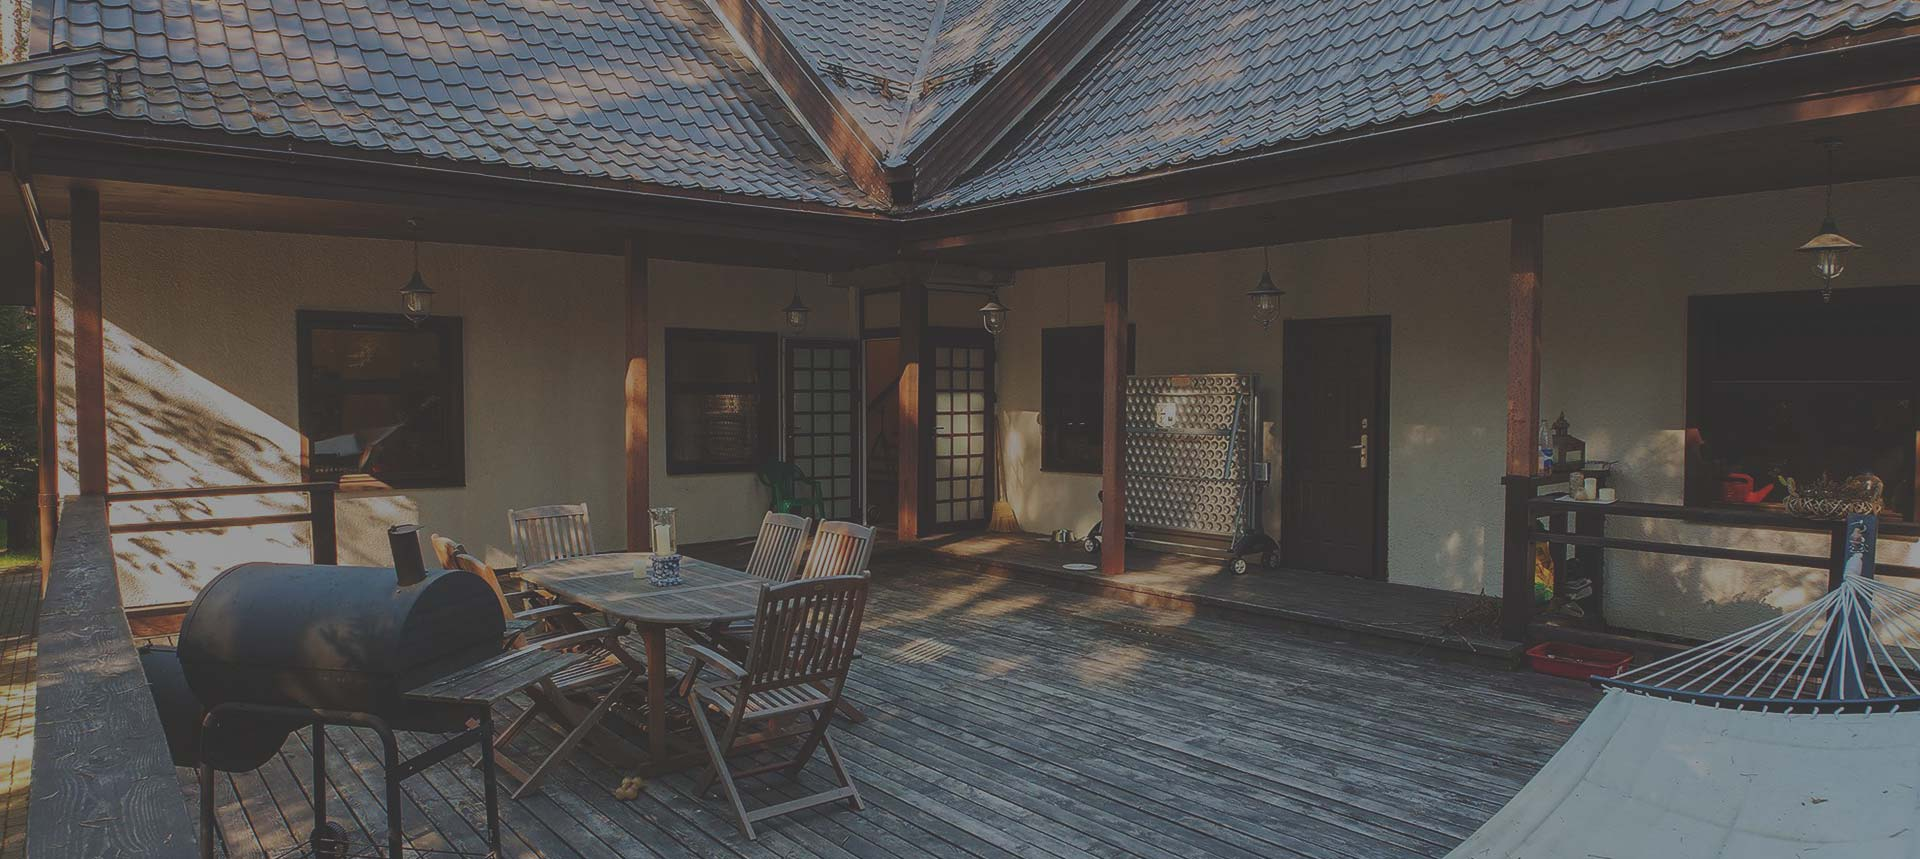
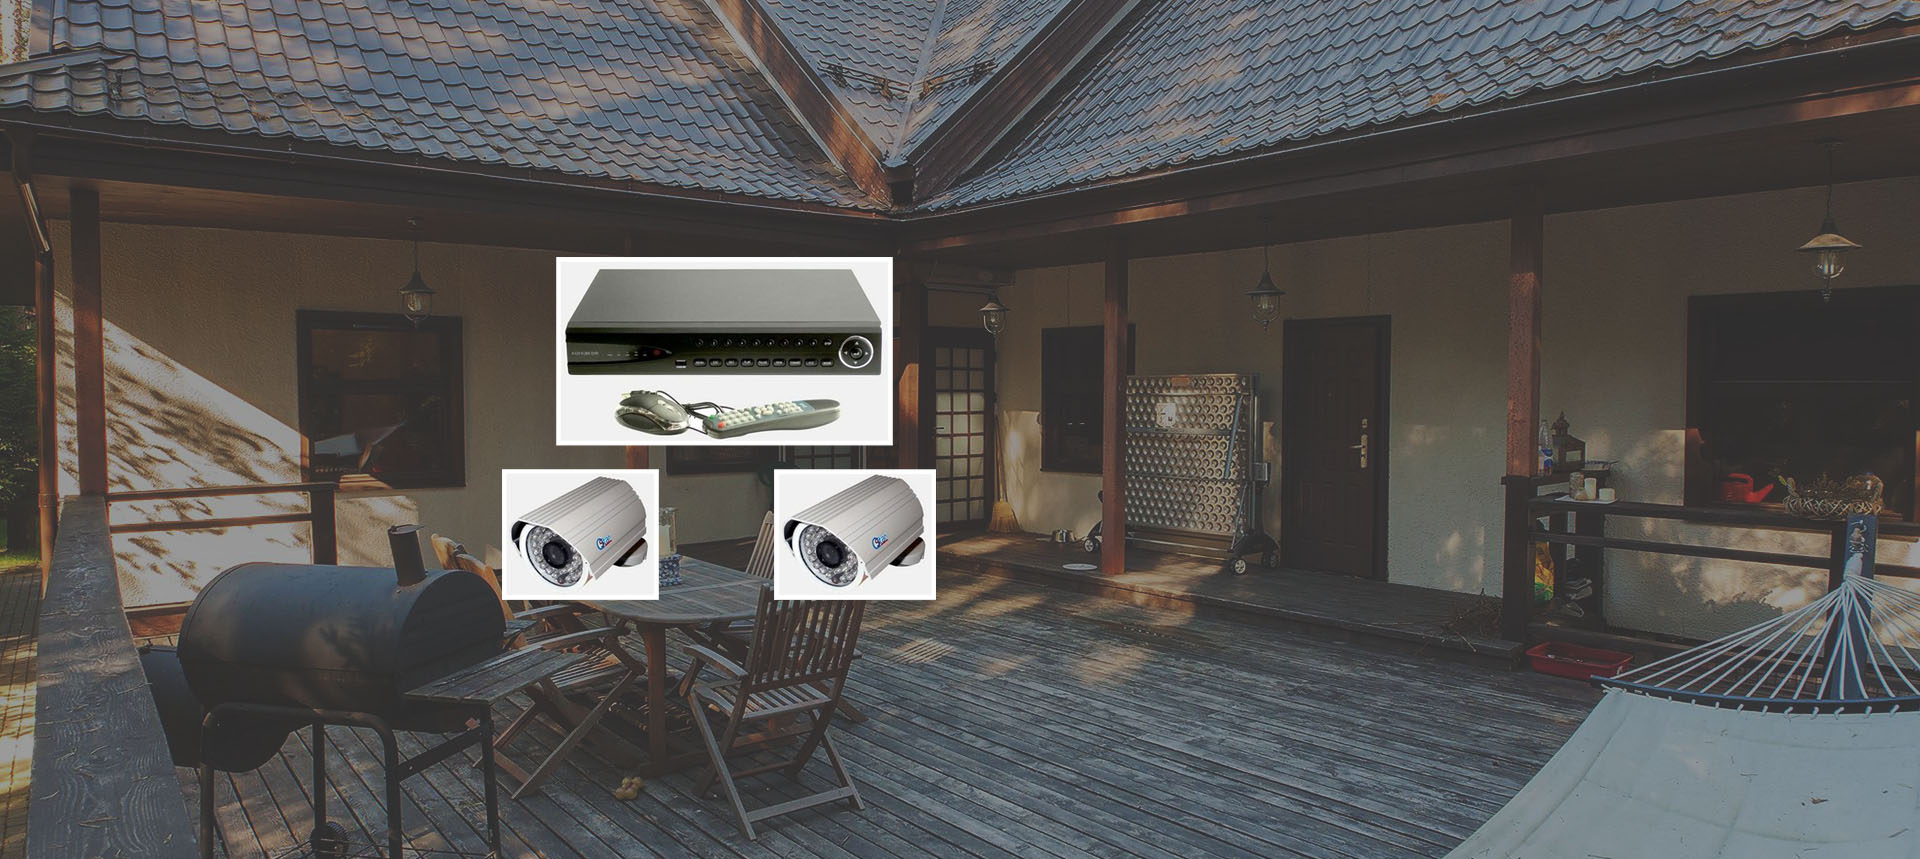
close copies

Changed region(s): [[0.25, 0.2724, 0.5, 0.6962]]

diff --git a/index.html b/index.html
@@ -25,13 +25,62 @@
 
 <section id='product1'>
 <main>
-
+<div>
+<ol>
+<li><strong>- Видеорегистратор QStar 3104</strong> (Цифровой<br/>
+видеорегистратор, 4-канальный + 4 канала<br/>
+звука, пентаплексный режим работы, скорость<br/>
+отображения 100 к/сек, скорость записи<br/>
+100 к/сек макс (D1)порт USB 2.0 х 2 шт. для<br/>
+подключения внешних устройств, Ethernet<br/>
+10/100/1000 MB, веб-интерфейс (iPhone,<br/>
+Blackberry, Google phone, Symbian и Windows)</li>
+<li><strong>- 2 камеры AC 302</strong> (Сенсор: 1/3 Sony Effio-E,<br/>
+Разрешение: 700 ТВЛ, Фокусное<br/>
+расстояние: 3.6 мм, ИК-подсветка:<br/>
+36 LED, Дальность: 15 м, Питание: DC 12V</li>
+<li><strong>- Блок питания</strong> </li>
+<li><strong>- Жесткий диск HDD 1 Тb</strong></li>
+<li><strong>- Кабели</strong> для подключения видеокамер длинной<br/>
+40м (Rexant coaxial, ШВВП 2Х0,75)</li>
+<li><strong>- Все необходимые разьёмы для подключения</strong><br/>
+(F113-55 4 шт, BNC 4 шт, JACK 2.1 - 2 шт)</li>
+<li><strong>- Распределительная коробка</strong> (ТУСО 100Х100 2шт)</li>
+</ol>
+<button class="button">оставить заявку</button>
+ </div>
+ <h2>QStar "Дача эконом" <span>13 376 руб</span></h2>  
 </main>
 </section>
 
 <section id='product2'>
 <main>
-
+<div>
+<ol>
+<li><strong>- Видеорегистратор QStar 3104</strong> (Цифровой<br/>
+видеорегистратор, 4-канальный + 4 канала<br/>
+звука, пентаплексный режим работы, скорость<br/>
+отображения 100 к/сек, скорость записи<br/>
+100 к/сек макс (D1)порт USB 2.0 х 2 шт. для<br/>
+подключения внешних устройств, Ethernet<br/>
+10/100/1000 MB, веб-интерфейс (iPhone,<br/>
+Blackberry, Google phone, Symbian и Windows)</li>
+<li><strong>- 4 камеры AC 302</strong> (Сенсор: 1/3 Sony Effio-E,<br/>
+Разрешение: 700 ТВЛ, Фокусное<br/>
+расстояние: 3.6 мм, ИК-подсветка:<br/>
+36 LED, Дальность: 15 м, Питание: DC 12V</li>
+<li><strong>- Блок питания</strong>(БРП КВАНТ 5А) </li>
+<li><strong>- Аккумулятор 7А/h</strong></li>
+<li><strong>- Жесткий диск HDD 2 Тb</strong></li>
+<li><strong>- Кабели</strong> для подключения видеокамер длинной<br/>
+100м (Rexant coaxial, ШВВП 2Х0,75)</li>
+<li><strong>- Все необходимые разьёмы для подключения</strong><br/>
+(F113-55 8 шт, BNC 4 шт, JACK 2.1 - 4 шт)</li>
+<li><strong>- Распределительная коробка</strong> (ТУСО 100Х100 4шт)</li>
+</ol>
+<button class="button">оставить заявку</button>
+ </div>
+ <h2>QStar "Дача стандарт"  <span>22 002 руб</span></h2>  
 </main>
 </section>
 
@@ -65,25 +114,39 @@
   <div>
      <h2><b>Отзывы</b><br/>наших клиентов</h2>
   <img src="img/m1.png" />
-  <b>Семен Стрижин, 33 года</b>
-  <p>- Очень приветливый персонал, парилка 100<br/>
-градусов просто супер, в бассейне водичка <br/>
-теплая. даже дочка купалась. Очень красивый<br/>
-дизайн, чистота и порядок. Будет время<br/>
-обязательно еще посетим!</p>
+  <b>Сергей, начальник охраны</b>
+  <p>Недавно мы решили самостоятельно выполнить монтаж<br/>
+видеонаблюдения у себя на складе, но немного<br/>
+не рассчитали со схемой размещения. В итоге,<br/>
+между камерами появилось много «слепых зон».<br/>
+Чтобы исправить эту ситуацию, заказали монтаж<br/>
+видеонаблюдения у компании SafetyCams.<br/>
+Ребята приехали в тот же день, всё грамотно<br/>
+рассчитали, быстро была проведена установка камер,<br/>
+регистратора, провода протянули. Теперь при<br/>
+меньшем количестве камер, у нас на складе нет<br/>
+ни одной «слепой зоны». Профессиональная работа,<br/>
+большие молодцы.</p>
   </div>
  </article>
  <article class="right">
   <div>
   <h2><b>Отзывы</b><br/>наших клиентов</h2>
   <img src="img/m2.png" />
-  <b>Александр Фомин, 23 года</b>
-  <p>Отдыхали 23.02. очень понравилось ненавязчивый<br/>
-сервис,чистенько,парилка замечательная,<br/>
-бассейн отличный. Отдыхом довольны!Вечер провели<br/>
-компанией незабываемо!!! Спасибо вежливому<br/>
-и культурному персоналу, удачи девчонки вам!!!<br/>
-Так держать!!!</p>
+  <b>Андрей Игоревич, предприниматель</b>
+  <p>Нужна была установка видеонаблюдения – обратился<br/>
+в компанию SafetyCams. Мне сразу понравилось то,<br/>
+что ее специалисты работали очень оперативно<br/>
+и слаженно. В первый же день сделали все замеры,<br/>
+оценку, подготовку объекта, доставили оборудование.<br/>
+А полная установка, монтаж и подключение всех<br/>
+камер заняла еще не более нескольких дней.<br/>
+Основные работы (монтаж и т.д.) велись ночью,<br/>
+поэтому всё это время магазин работал без перебоев.<br/>
+Очень ответственный подход к делу, уважаю таких<br/>
+партнеров. Скоро понадобится установка<br/>
+видеонаблюдения и на другой точке – теперь<br/>
+уже знаю, к кому обращаться.</p>
   </div>
  </article>
 </section>

diff --git a/style.css b/style.css
@@ -63,7 +63,27 @@ header form button{width:170px;height:40px;color:white;font:bold 14px "Trebuchet
 .request button:active{box-shadow:none;margin-top:10px;margin-bottom:0;}
 #r2 h2{font-size:40px !important;}
 
-#reviews{position:relative;height:720px}
+
+
+#product1{background:url(img/fon2.jpg)no-repeat center;height:859px;}
+#product1 h2{position:absolute;top:-10px;left:100px;font:bold 40px "Trebuchet MS";text-transform:uppercase;margin:95px 35px 70px 50px;color:#ffffff;background:#2d2d2d;display:inline-block;text-align:center;padding:5px 5px} 
+#product1 h2 span{color:#f8bb24}
+#product1 div{float:right;width:410px;height:734px;background:white;margin-top:60px}
+#product1 div ol{list-style:none;padding:120px 0px 30px 10px;font:16px "Trebuchet MS"}
+#product1 div ol li{padding:5px 0}
+#product1 div ol li strong{font-weight:bold}
+#product1 div button{margin-left:30px;margin-top:5px;width:190px;height:50px;background:#2d2d2d;text-transform:uppercase;color:white;font:15px "Trebuchet MS";border:none;cursor:pointer;}
+ 
+#product2{background:url(img/fon3.jpg)no-repeat center;height:859px;}
+#product2 h2{position:absolute;top:-10px;left:100px;font:bold 40px "Trebuchet MS";text-transform:uppercase;margin:95px 35px 70px 50px;color:#ffffff;background:#2d2d2d;display:inline-block;text-align:center;padding:5px 5px} 
+#product2 h2 span{color:#f8bb24}
+#product2 div{float:left;width:410px;height:734px;background:white;margin-top:60px}
+#product2 div ol{list-style:none;padding:100px 0px 10px 30px;font:16px "Trebuchet MS"}
+#product2 div ol li{padding:5px 0}
+#product2 div ol li strong{font-weight:bold}
+#product2 div button{margin-left:30px;margin-top:5px;width:190px;height:50px;background:#2d2d2d;text-transform:uppercase;color:white;font:15px "Trebuchet MS";border:none;cursor:pointer;}
+
+#reviews{position:relative;height:943px}
 #reviews .left  {float:none;display:block;position:absolute;top:0;bottom:0;left:0;right:50%;background:#f5f0ed}
 #reviews .right{float:none;display:block;position:absolute;top:0;bottom:0;right:0;left:50%;background:#00b3cb}
 #reviews article div{position:absolute;width:400px;top:80px;bottom:80px;text-align:center}
@@ -72,25 +92,6 @@ header form button{width:170px;height:40px;color:white;font:bold 14px "Trebuchet
 #reviews article div img{display:block;margin:0 auto 40px}
 #reviews .left   div{right:40px}
 #reviews .right div{left:40px}
-
-#a1{background:url(img/fon5.jpg)no-repeat center;height:859px;}
-#a1 h2{position:absolute;top:-10px;left:223px;font:bold 40px "Trebuchet MS";text-transform:uppercase;margin:95px 35px 70px 50px;color:#ffffff;background:#2d2d2d;display:inline-block;text-align:center;padding:5px 5px} 
-#a1 div{float:right;width:410px;height:734px;background:white;margin-top:60px}
-#a1 div ol{list-style:none;padding:100px 0px 40px 30px;font:bold 18px "Trebuchet MS"}
-#a1 div ol li{padding:8px 0}
-#a1 div h3{font:26px "Trebuchet MS";background:#f8bb24;display:inline-block;padding:5px 10px;margin-left:30px;margin-bottom:5px;}
-#a1 div p{font:16px "Trebuchet MS";padding:10px 0 10px 30px}
-#a1 div button{margin-left:30px;margin-top:5px;width:190px;height:50px;background:#2d2d2d;text-transform:uppercase;color:white;font:15px "Trebuchet MS";border:none;cursor:pointer;}
- 
-#a2{background:url(img/fon6.jpg)no-repeat center;height:859px;}
-#a2 h2{position:absolute;top:-10px;left:185px;font:bold 40px "Trebuchet MS";text-transform:uppercase;margin:95px 35px 70px 50px;color:#ffffff;background:#2d2d2d;display:inline-block;text-align:center;padding:5px 5px} 
-#a2 div{float:left;width:410px;height:734px;background:white;margin-top:60px}
-#a2 div ol{list-style:none;padding:100px 0px 35px 30px;font:bold 18px "Trebuchet MS"}
-#a2 div ol li{padding:8px 0}
-#a2 div h3{font:26px "Trebuchet MS";background:#f8bb24;display:inline-block;padding:5px 10px;margin-left:30px;margin-bottom:5px;}
-#a2 div p{font:16px "Trebuchet MS";padding:10px 0 9px 30px}
-#a2 div button{margin-left:30px;margin-top:5px;width:190px;height:50px;background:#2d2d2d;text-transform:uppercase;color:white;font:15px "Trebuchet MS";border:none;cursor:pointer;}
-
 #map{background:url('img/map.jpg') center top no-repeat;height:513px;}
 
 footer{color:white;background:url('img/fon7.jpg') center top no-repeat;height:331px;}
